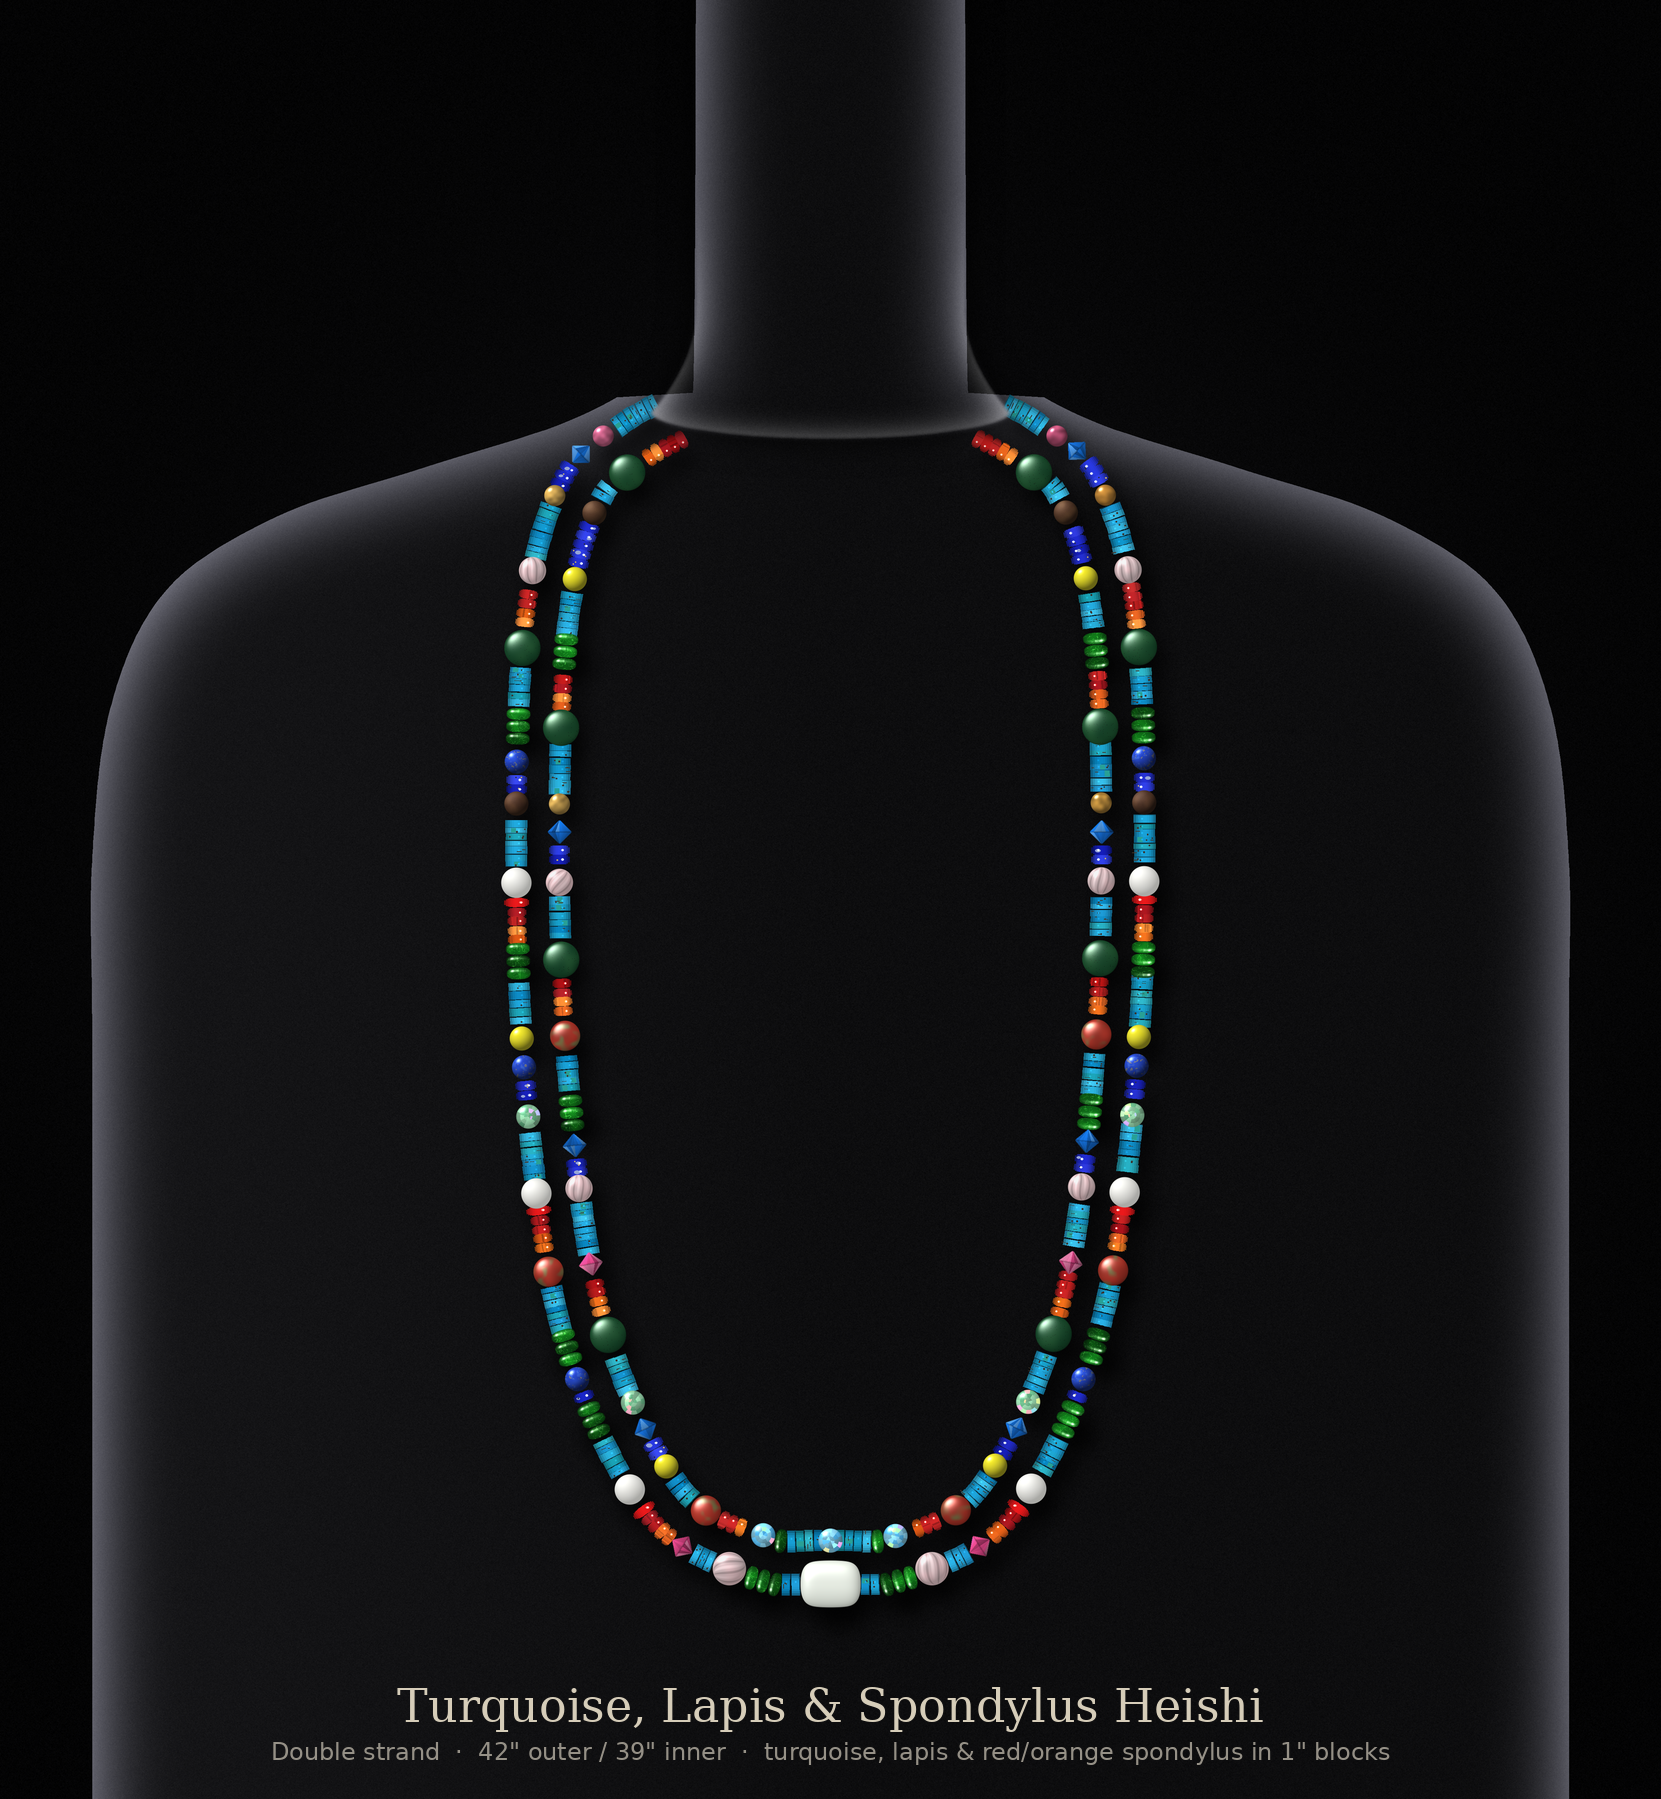
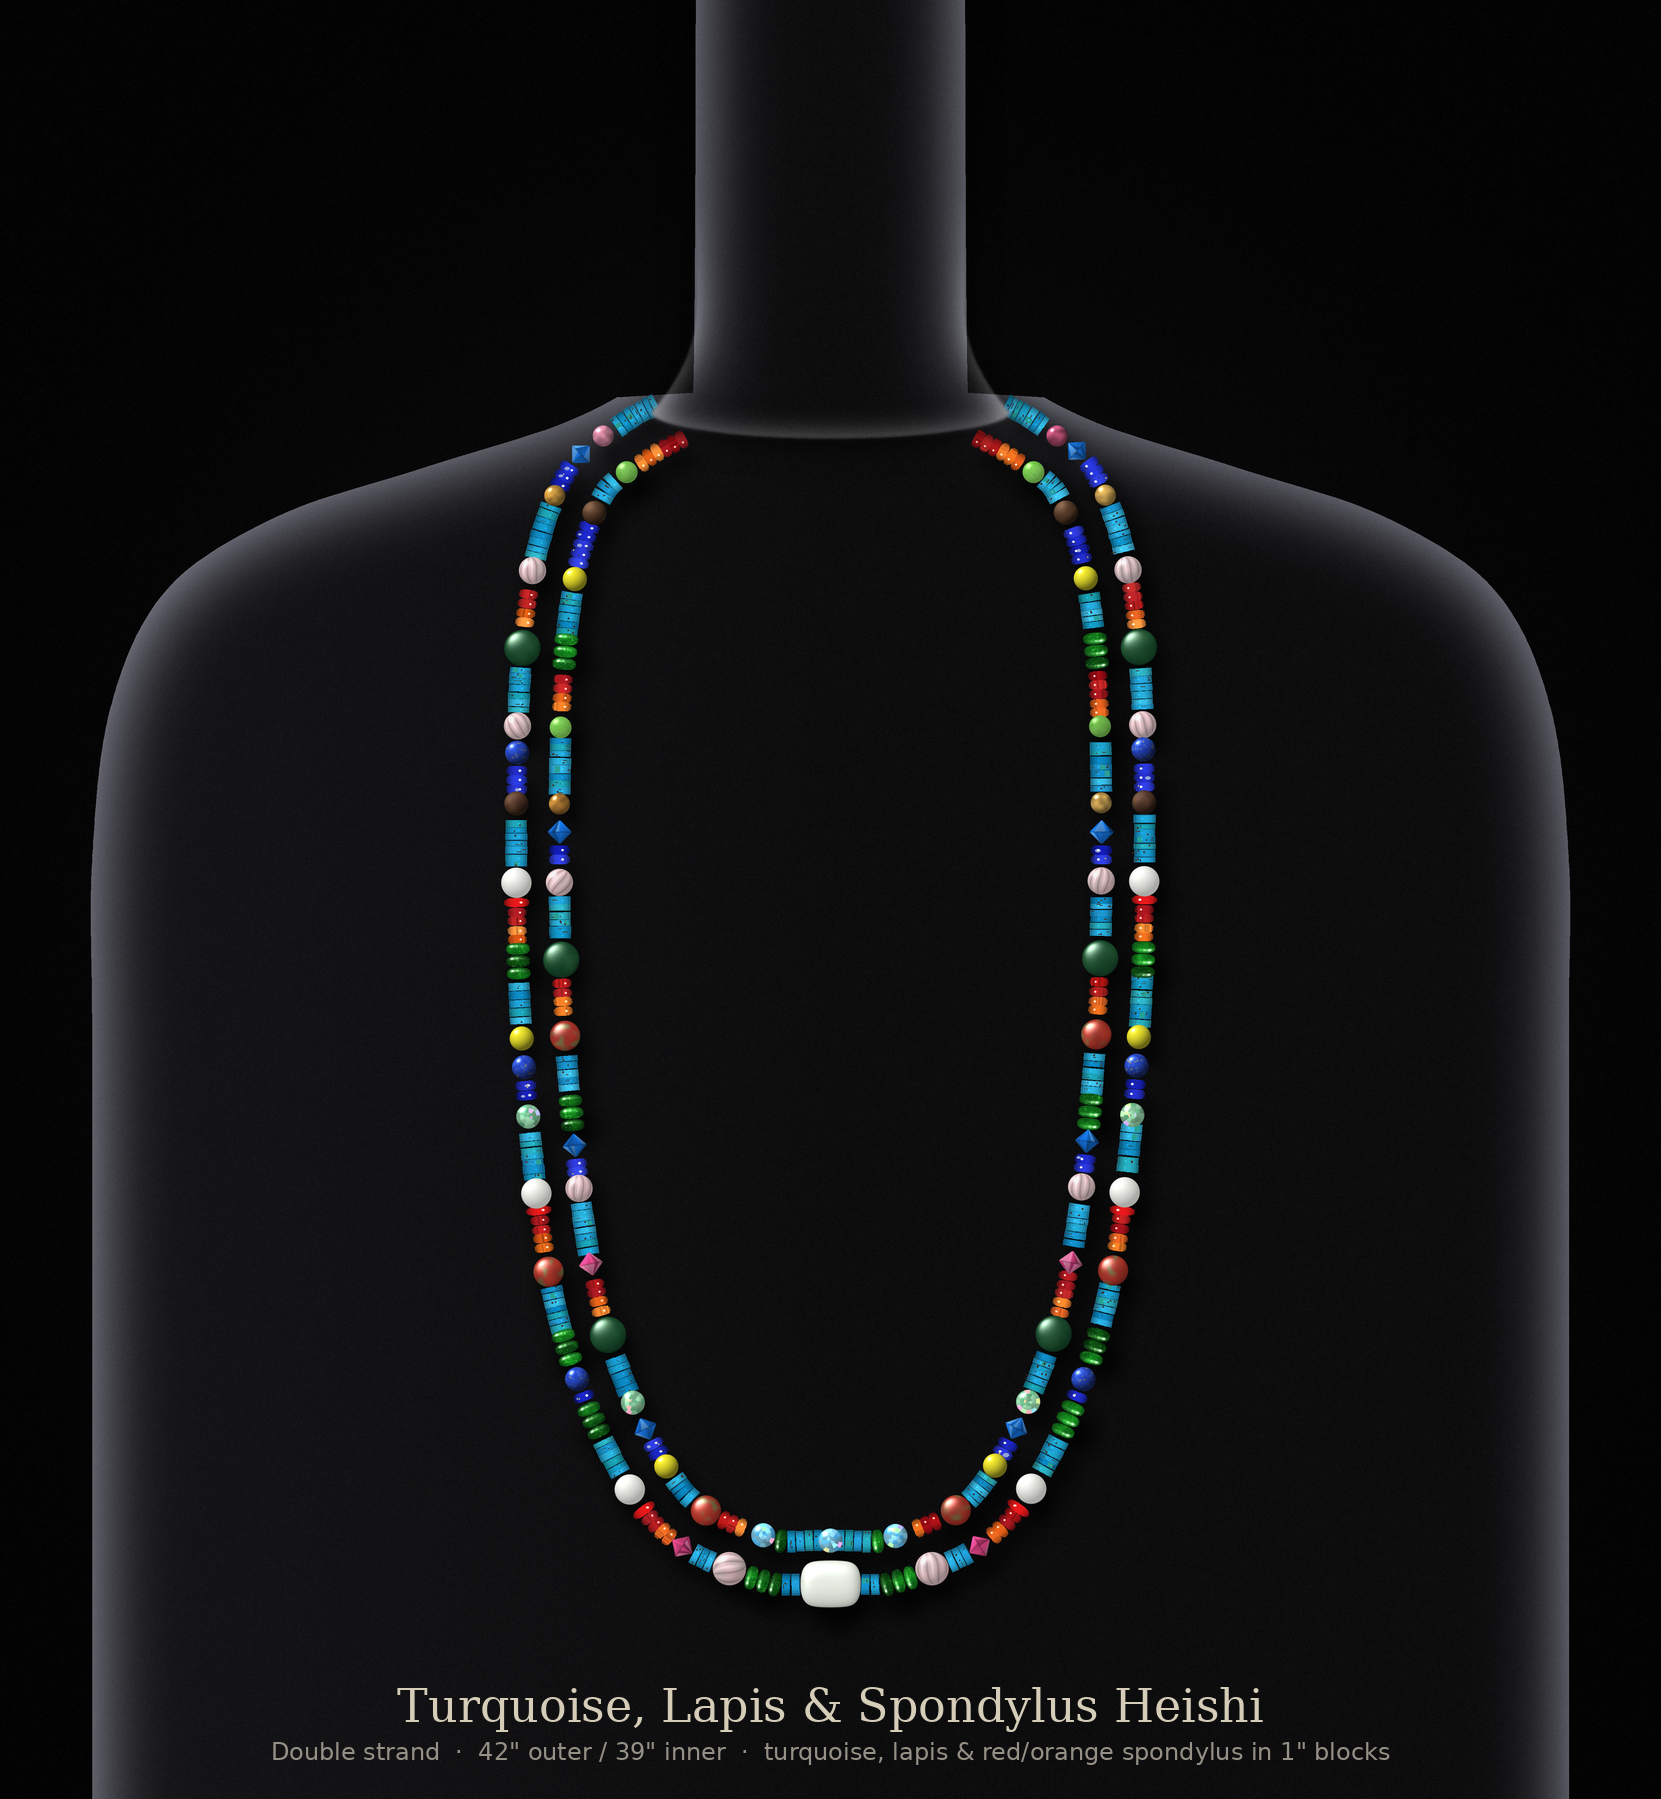
Version 2: upper inner Russian jade replaced with 7.3mm green jade
Claude-Session: https://claude.ai/code/session_014be1vF4Rdf8sv9Si75Gudv

diff --git a/necklace/render_necklace.py b/necklace/render_necklace.py
@@ -386,6 +386,14 @@ if V2:
             if b[5] == "jade" and any(math.hypot(b[0] - yx, b[1] - yy) < 16 for yx, yy in _yel):
                 barrels[st][k] = b[:5] + ("applejasper",)
 
+if V2:
+    # the two highest Russian jade per side on the inner strand -> 7.3 mm light green jade
+    for _side in (True, False):
+        _ks = sorted([k for k, b in enumerate(barrels[1]) if b[5] == "jade" and (b[0] < 0) == _side
+                      and not orig_hidden(b[0], b[1])], key=lambda k: barrels[1][k][1])
+        for k in _ks[:2]:
+            barrels[1][k] = barrels[1][k][:5] + ("gjade7",)
+
 # 8 x 3 mm spondylus rondelles flank every white barrel: red on one side, orange on the other
 RON_D, RON_T = 8.0, 3.0
 rondelles = {0: [], 1: []}
@@ -444,7 +452,7 @@ if not EXTRAS:
     rondelles = {0: [], 1: []}
 
 def clear_of_barrel(strand, pos):
-    return (all(abs(pos - b[4]) > (5.0 if b[5] == "conch_pink" else 5.5 if b[5] == "rose11b" else 4.5 if b[5] == "rose9b" else (6.0 if (V2 and b[5] == "jade") else BAR_L / 2)) + 0.4 for b in barrels[strand]) and
+    return (all(abs(pos - b[4]) > (5.0 if b[5] == "conch_pink" else 3.65 if b[5] == "gjade7" else 5.5 if b[5] == "rose11b" else 4.5 if b[5] == "rose9b" else (6.0 if (V2 and b[5] == "jade") else BAR_L / 2)) + 0.4 for b in barrels[strand]) and
             all(abs(pos - b[4]) > ROUND_D[b[5]] / 2 + 0.4 for b in jaspers[strand]) and
             all(abs(pos - r[4]) > RON_T / 2 + 0.4 for r in rondelles[strand]) and
             all(abs(pos - t[4]) > tsize(t) / 2 + 0.3 for t in tourm[strand]))
@@ -1040,6 +1048,28 @@ def milky_opal_sprite(seed, diam=12.0):
     return Image.fromarray(np.dstack([np.clip(col, 0, 255), alpha]).astype(np.uint8), "RGBA")
 
 
+def green_jade_sprite(seed, diam=7.3):
+    """7.3 mm green jade round: translucent apple-to-spring green, soft milky clouds, a few dark specks, waxy gloss."""
+    rng = np.random.default_rng(seed + 83000)
+    n = int(diam * S)
+    yy_, xx_ = np.mgrid[0:n, 0:n]
+    c = (n - 1) / 2
+    nx_ = (xx_ - c) / (n / 2); ny_ = (yy_ - c) / (n / 2)
+    rr = np.hypot(nx_, ny_)
+    z = np.sqrt(np.clip(1 - rr ** 2, 0, 1))
+    cl = np.array(Image.fromarray((rng.random((5, 5)) * 255).astype(np.uint8)).resize((n, n), Image.BICUBIC), float) / 255
+    tone = rng.uniform(0.92, 1.08)
+    base = np.array([110, 190, 70]) * tone * (1 - 0.3 * cl[..., None]) + np.array([170, 215, 140]) * 0.3 * cl[..., None]
+    sp = rng.random((n, n)) > 0.994
+    base[sp] = [30, 50, 30]
+    L = np.array([-0.45, -0.55, 0.70]); L /= np.linalg.norm(L)
+    ndl = np.clip(nx_ * L[0] + ny_ * L[1] + z * L[2], 0, 1)
+    wrap = np.clip((ndl + 0.5) / 1.5, 0, 1)
+    col = base * (0.55 + 0.50 * wrap[..., None]) + 255 * 0.45 * (ndl ** 30)[..., None]
+    alpha = np.clip((1 - rr) * n / 2, 0, 1) * 255
+    return Image.fromarray(np.dstack([np.clip(col, 0, 255), alpha]).astype(np.uint8), "RGBA")
+
+
 def chalk_sprite(seed, diam=10.0):
     """10 mm matte chalk-white round: rich bright white, no gloss, very fine powdery texture."""
     rng = np.random.default_rng(seed + 67000)
@@ -1116,6 +1146,11 @@ for st in (0, 1):
         if hidden(x, y):
             continue
         _stone = b[5] if len(b) > 5 else "white"
+        if _stone == "gjade7":
+            spr = green_jade_sprite(bseed)         # 7.3 mm translucent light green jade
+            px, py = P(x, y)
+            layer.paste(spr, (int(px - spr.width / 2), int(py - spr.height / 2)), spr)
+            continue
         if _stone == "opal10":
             spr = milky_opal_sprite(bseed, 10.0)   # 10 mm milky matte white opal
             px, py = P(x, y)
